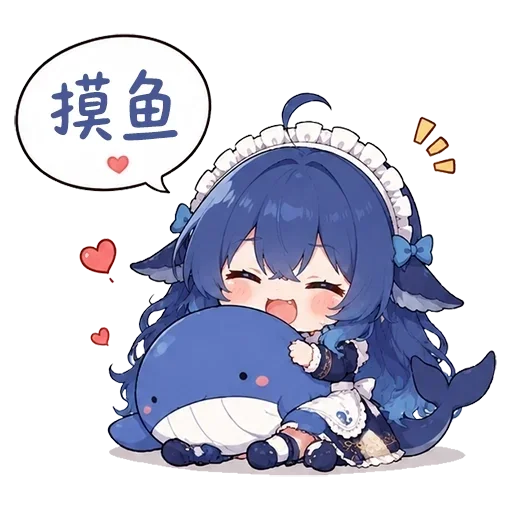
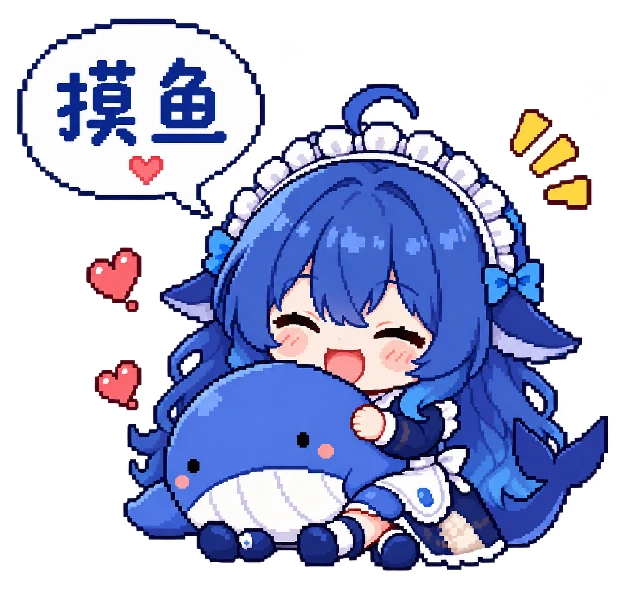
feat: pixel-art watermark for empty output state

diff --git a/src/app.css b/src/app.css
@@ -241,8 +241,9 @@ html[data-theme='d'] .output.is-empty::before {
   inset: 0;
   z-index: -1;
   background: url('/assets/empty-watermark.webp') center / 58% auto no-repeat;
-  opacity: 0.16;
+  opacity: 0.18;
   pointer-events: none;
+  image-rendering: pixelated;
   -webkit-mask-image: radial-gradient(closest-side, #000 52%, transparent 82%);
   mask-image: radial-gradient(closest-side, #000 52%, transparent 82%);
 }
